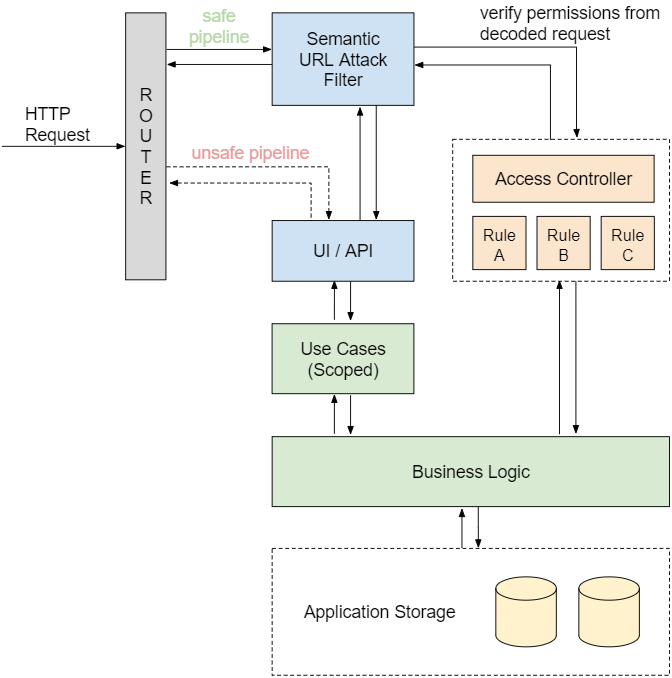
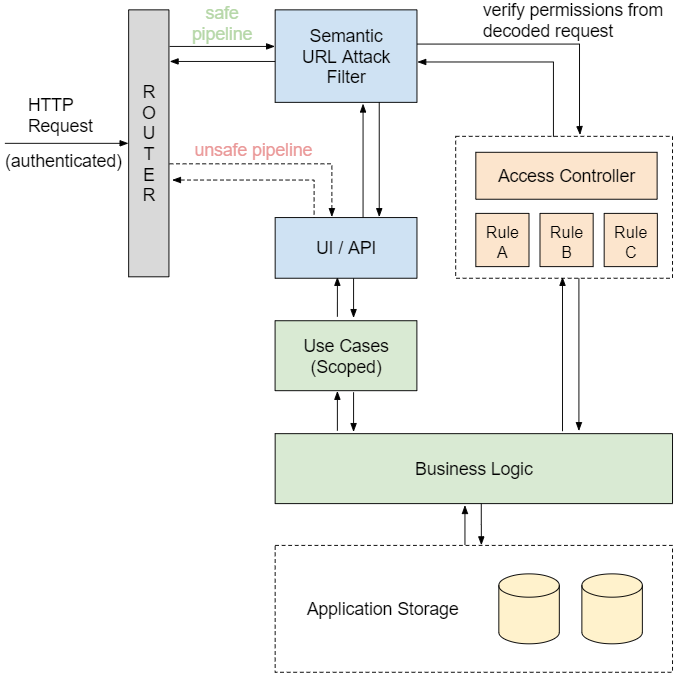
Updating 2021-04-20-protecting-against-semantic-attacks.md

diff --git a/_posts/2021-04-20-protecting-against-semantic-attacks.md b/_posts/2021-04-20-protecting-against-semantic-attacks.md
@@ -9,7 +9,7 @@ The semantic URL attack is one of the most popular attack types aimed at web app
 
 In it an attacker client manually adjusts the parameters of an HTTP request by maintaining the URL's syntax but altering its semantic meaning. If the web application is not protected against this kind of attack then it's only a matter of the attacker rightly guessing request parameters for potentially gaining access to sensitive information.
 
-Let's take a look at a simple example. Consider you're accessing your registered profile in a web application through the following URL:
+Let's take a look at a simple example. Consider you're an authenticated user accessing your registered profile in a web application through the following URL:
 
 > https://domain.com/account/profile?id=982354
 
@@ -18,7 +18,7 @@ By looking at this request URL we can easily spot the "id" parameter and make an
 
 > https://domain.com/account/profile?id=982355
 
-If the web application isn't properly implementing a protection against this type of attack then its users data will be susceptible to leakage. The attacker could even make use of brute force for iterating a large number of "id" guesses and potentializing his outcome.
+If the web application isn't properly implementing a protection against this type of attack (i.e. checking the authenticated user is authorized to access resources) then its users data will be susceptible to leakage. The attacker could even make use of brute force for iterating a large number of "id" guesses and potentializing his outcome.
 
 Two valid countermeasures for minimizing risks in this situation are:
 
@@ -27,7 +27,7 @@ Two valid countermeasures for minimizing risks in this situation are:
 
 The first one makes guessing valid users (or other resources) IDs much harder, and the second one prevents brute force attacks from going through by limiting the amount of requests individual users can make to the application. However, <b>none of these measures solve the real problem</b>, they're only mitigating it! It will still be possible to access or modify thrid parties sensitive data by making the right guess for the request parameters.
 
-So what's the solution to this problem? As we'll see in the next section one strategy is for the web application to verify the requesting users permissions for every HTTP request that a client makes, without exception, for properly protecting against semantic attacks.
+So what's the solution to this problem? As we'll see in the next section one strategy is for the web application to verify the requesting users permissions for every HTTP request he/she makes, without exception, for properly protecting against semantic attacks.
 
 Filtering Requests
 ============
@@ -38,7 +38,7 @@ In essence a web application that's susceptible to semantic URL attacks isn't fi
   <img style="max-width: 100%; max-height: 480px; margin: 10px 0 10px -40px" src="{{ site.baseurl }}/images/p27/semantic-attack-filter.PNG" alt="surface"/>
 </p>
 
-An HTTP request arrives at the endpoint and is routed for processing. Without filtering ("unsafe pipeline") the request goes directly to the application UI / business logic for processing, accessing its storage, and returns unverified data to the caller. With filtering ("safe pipeline") before the request is actually executed a verification is performed for making sure it's authorized to execute in the first place.
+An authenticated HTTP request arrives at the endpoint and is routed for processing. Without filtering ("unsafe pipeline") the request goes directly to the application UI / business logic for processing, accessing its storage, and returns unverified data to the caller. With filtering ("safe pipeline") before the request is actually executed a verification is performed for making sure it's authorized to execute in the first place.
 
 The semantic URL attack filter will be responsible for decoding the request's URL, its parameters, and performing necessary verifications on whether or not the requesting user is allowed to access the resources mapped by these parameters. A typical design includes an "access control" module that implements resource specific verification rules for querying the request caller's permissions on the set of affected resources. These rules can be independent of each other in the case of non related components, but they can also be constructed as a combination of lower level rules for more elaborate resources. For successfully validating a web request the semantic URL attack filter must execute all pertinent access control rules based on the decoded web request.
 
